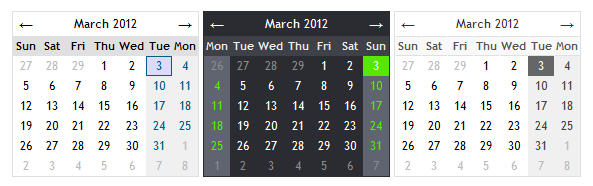
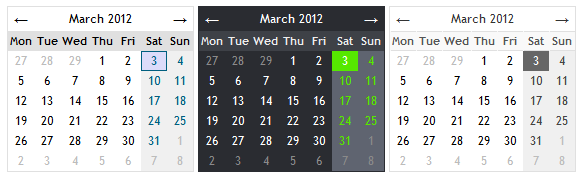
updated page + replaced screenshot + fixed theme name

diff --git a/js/yaDatePicker-1.0-min.js b/js/yaDatePicker-1.0-min.js
@@ -1,1 +1,1 @@
-(function(c){var d=["January","February","March","April","May","June","July","August","September","October","November","December"];var b=["Mon","Tue","Wed","Thu","Fri","Sat","Sun"];var f="←";var j="→";function l(p,s){var n=p.getMonth();var t=p.getDate();var u=p.getFullYear();var r=s.split(""),o;for(var q=0;q<r.length;q++){o=r[q];switch(r[q]){case"d":o=(t<10)?("0"+t):t;break;case"m":o=(n<9)?("0"+(1+n)):(1+n);break;case"y":o=(""+u).substr(2,2);break;case"Y":o=u;break}r[q]=o}return r.join("")}function i(m,n){return new Date(m.getFullYear(),m.getMonth()+n,0)>new Date()}function k(m){return new Date(m.getFullYear(),m.getMonth(),m.getDate())}function a(n){var m=[];for(var o=0;o<b.length;o++){if(o>n){m.unshift(b[o])}else{m.push(b[o])}}return m}function e(m){c("#"+m.id).slideUp(200)}function h(n){var D=new Date();var z=n.currentDate.getMonth();var y=a(n.firstDay);var p="";for(var B=0;B<7;B++){p+='<td class="@@-cell">'+y[B]+"</td>"}var o='<tr class="@@-days">'+p+"</tr>";var m=new Date(n.currentDate);m.setDate(0);m.setDate(m.getDate()+n.firstDay-m.getDay()+1);if(m.getMonth()==z){m.setDate(m.getDate()-7)}var r,s,C,q;for(var t=0,E=0;t<6;t++){p="";for(B=0;B<7;B++){var F=m.getDate();var A=m.getDay();r=(m.getMonth()==z)?" @@-on-month":" @@-off-month";s=(A==0||A==6)?" @@-weekend":"";C=((!n.allowPast&&m<=D)||(n.endDate!=-1&&m>n.endDate))?" @@-no-day":" @@-yes-day";q=m.getTime()==n.selectedDate.getTime()?" @@-selected-day":"";m.setDate(m.getDate()+1);p+='<td class="@@-cell'+r+s+C+q+'">'+F+"</td>"}o+='<tr class="@@-week">'+p+"</tr>"}var u="";if(n.navigation){var v='<div class="@@-prev-link">'+f+"</div>";var x='<div class="@@-next-link">'+j+"</div>";if(!n.allowPast&&!i(n.currentDate,0)){v=""}if(n.endDate!=-1&&n.endDate.getMonth()==z){x=""}u='<tr class="@@-links"><td colspan="1">'+v+'</td><td colspan="5"><div class="@@-current">'+d[n.currentDate.getMonth()]+" "+n.currentDate.getFullYear()+'</div></td><td colspan="1">'+x+"</td></tr>"}return('<table cellpadding="0" cellspacing="0">'+u+o+"</table>").replace(/@{2}/gi,n.theme)}function g(q,n){if(!n.allowPast){if(!i(n.currentDate,1)){var m=new Date(n.currentDate);m.setMonth(m.getMonth()+1);n.currentDate=m}}var o=h(n);var p=c("#"+n.id);if(p.length==0){p=c('<div id="'+n.id+'" class="'+n.theme+'"/>');if(n.inline){q.empty().append(p.addClass("inline"))}else{q.after(p.css({position:"absolute",display:"none"}))}}p.html(o);c("."+n.theme+"-links [class*=-link]",p).hover(function(){c(this).addClass(n.theme+"-link-hover")},function(){c(this).removeClass(n.theme+"-link-hover")}).click(function(s){s.stopPropagation();var r=new Date(n.currentDate);r.setMonth(r.getMonth()+(c(this).attr("class").indexOf("-prev-link")!=-1?-1:1));n.currentDate=r;g(q,n)});c("."+n.theme+"-yes-day",p).hover(function(){c(this).addClass(n.theme+"-cell-hover")},function(){c(this).removeClass(n.theme+"-cell-hover")}).click(function(){var s=c(this);var t=s.html();var r=new Date(n.currentDate);if(s.hasClass(n.theme+"-off-month")){r.setMonth(r.getMonth()+(t>15?-1:1))}r.setDate(t);n.currentDate=r;n.selectedDate=r;if(!n.inline){q.val(l(r,n.format));e(n)}g(q,n);if(n.onSelect){n.onSelect(r)}})}c.fn.attachDatePicker=function(m){return this.each(function(){var t=c(this);var p=k(new Date());var q=c.extend({},{inline:false,firstDay:0,navigation:true,allowPast:true,endDate:-1,theme:"dp",format:"d.m.Y",onSelect:function(u){}},m);q.id="dp-"+c("div[id^=dp-]").length;q.currentDate=p;q.selectedDate=p;if(!q.allowPast){q.selectedDate.setDate(p.getDate()+1)}var o=q.endDate;if(o!=-1){if(typeof o=="number"){var s=new Date(p);s.setDate(s.getDate()+o);q.endDate=s}else{if(!(o instanceof Date)){q.endDate=-1}}}g(t,q);if(!q.inline){var r=function(u){u.stopPropagation();c("#"+q.id).css({left:t.offset().left,top:t.offset().top+t.outerHeight(false)}).slideDown(200);c("div[id^=dp-]").not(".inline").not("#"+q.id).slideUp(200)};var n=function(u){u.stopPropagation();e(q)};t.focus(r).click(r);c(document).click(n)}})}})(jQuery);
+(function(f){f.monthNames=["January","February","March","April","May","June","July","August","September","October","November","December"];f.daysNames=["Sun","Mon","Tue","Wed","Thu","Fri","Sat"];f.prevLink="←";f.nextLink="→";function c(l,p){var j=l.getMonth();var q=l.getDate();var r=l.getFullYear();var o=p.split(""),k;for(var n=0;n<o.length;n++){k=o[n];switch(o[n]){case"d":k=(q<10)?("0"+q):q;break;case"m":k=(j<9)?("0"+(1+j)):(1+j);break;case"y":k=(""+r).substr(2,2);break;case"Y":k=r;break}o[n]=k}return o.join("")}function h(i,j){return new Date(i.getFullYear(),i.getMonth()+j,0)>new Date()}function d(i){return new Date(i.getFullYear(),i.getMonth(),i.getDate())}function e(k){var j=[];var m=f.daysNames;for(var l=m.length-1;l>=0;l--){if(l>=k){j.unshift(m[l])}else{j.push(m[l])}}return j}function b(i){f("#"+i.id).slideUp(200)}function a(k){var A=new Date();var v=k.currentDate.getMonth();var u=e(k.firstDay);var m="";for(var y=0;y<7;y++){m+='<td class="@@-cell">'+u[y]+"</td>"}var l='<tr class="@@-days">'+m+"</tr>";var j=new Date(k.currentDate);j.setDate(0);j.setDate(j.getDate()+k.firstDay-j.getDay());if(j.getMonth()==v){j.setDate(j.getDate()-7)}var o,p,z,n;for(var q=0,B=0;q<6;q++){m="";for(y=0;y<7;y++){var C=j.getDate();var x=j.getDay();o=(j.getMonth()==v)?" @@-on-month":" @@-off-month";p=(x==0||x==6)?" @@-weekend":"";z=((!k.allowPast&&j<=A)||(k.endDate!=-1&&j>k.endDate))?" @@-no-day":" @@-yes-day";n=j.getTime()==k.selectedDate.getTime()?" @@-selected-day":"";j.setDate(j.getDate()+1);m+='<td class="@@-cell'+o+p+z+n+'">'+C+"</td>"}l+='<tr class="@@-week">'+m+"</tr>"}var r="";if(k.navigation){var s='<div class="@@-prev-link">'+f.prevLink+"</div>";var t='<div class="@@-next-link">'+f.nextLink+"</div>";if(!k.allowPast&&!h(k.currentDate,0)){s=""}if(k.endDate!=-1&&k.endDate.getMonth()==v){t=""}r='<tr class="@@-links"><td colspan="1">'+s+'</td><td colspan="5"><div class="@@-current">'+f.monthNames[k.currentDate.getMonth()]+" "+k.currentDate.getFullYear()+'</div></td><td colspan="1">'+t+"</td></tr>"}return('<table cellpadding="0" cellspacing="0">'+r+l+"</table>").replace(/@{2}/gi,k.theme)}function g(m,j){if(!j.allowPast){if(!h(j.currentDate,1)){var i=new Date(j.currentDate);i.setMonth(i.getMonth()+1);j.currentDate=i}}var k=a(j);var l=f("#"+j.id);if(l.length==0){l=f('<div id="'+j.id+'" class="'+j.theme+'"/>');if(j.inline){m.empty().append(l.addClass("inline"))}else{m.after(l.css({position:"absolute",display:"none"}))}}l.html(k);f("."+j.theme+"-links [class*=-link]",l).hover(function(){f(this).addClass(j.theme+"-link-hover")},function(){f(this).removeClass(j.theme+"-link-hover")}).click(function(o){o.stopPropagation();var n=new Date(j.currentDate);n.setMonth(n.getMonth()+(f(this).attr("class").indexOf("-prev-link")!=-1?-1:1));j.currentDate=n;g(m,j)});f("."+j.theme+"-yes-day",l).hover(function(){f(this).addClass(j.theme+"-cell-hover")},function(){f(this).removeClass(j.theme+"-cell-hover")}).click(function(){var o=f(this);var p=o.html();var n=new Date(j.currentDate);if(o.hasClass(j.theme+"-off-month")){n.setMonth(n.getMonth()+(p>15?-1:1))}n.setDate(p);j.currentDate=n;j.selectedDate=n;if(!j.inline){m.val(c(n,j.format));b(j)}g(m,j);if(j.onSelect){j.onSelect(n)}})}f.fn.attachDatePicker=function(i){return this.each(function(){var p=f(this);var l=d(new Date());var m=f.extend({},{inline:false,firstDay:0,navigation:true,allowPast:true,endDate:-1,theme:"dp",format:"d.m.Y",onSelect:function(q){}},i);m.id="dp-"+f("div[id^=dp-]").length;m.currentDate=l;m.selectedDate=l;if(!m.allowPast){m.selectedDate.setDate(l.getDate()+1)}var k=m.endDate;if(k!=-1){if(typeof k=="number"){var o=new Date(l);o.setDate(o.getDate()+k);m.endDate=o}else{if(!(k instanceof Date)){m.endDate=-1}}}g(p,m);if(!m.inline){var n=function(q){q.stopPropagation();f("#"+m.id).css({left:p.offset().left,top:p.offset().top+p.outerHeight(false)}).slideDown(200);f("div[id^=dp-]").not(".inline").not("#"+m.id).slideUp(200)};var j=function(q){q.stopPropagation();b(m)};p.focus(n).click(n);f(document).click(j)}})}})(jQuery);

diff --git a/index.html b/index.html
@@ -3,7 +3,7 @@
 <html>
 <head>
     <meta http-equiv="content-type" content="text/html; charset=utf-8"/>
-    <title>yaDataPicker - yet another jQuery Date Picker plugin</title>
+    <title>yaDataPicker - yet another jQuery DatePicker plugin</title>
 
     <!--
         Highlighter stiles
@@ -17,7 +17,7 @@
 
     <link href="css/default.css" media="screen" rel="stylesheet" type="text/css"/>
     <link href="css/dark.css" media="screen" rel="stylesheet" type="text/css"/>
-    <link href="css/gray.css" media="screen" rel="stylesheet" type="text/css"/>
+    <link href="css/grey.css" media="screen" rel="stylesheet" type="text/css"/>
 
     <script type="text/javascript" src="js/yaDatePicker-1.0-min.js"></script>
 
@@ -78,10 +78,10 @@
 
 <div class="wrapper">
     <div class="content">
-        <h1>yaDataPicker - yet another date picker</h1>
+        <h1>yaDataPicker - yet another datepicker</h1>
 
         <p align="center">
-            <img src="img/screenshot.png" alt="yaDataPicker - yet another date picker"/>
+            <img src="img/screenshot.png" alt="yaDataPicker - yet another datepicker"/>
         </p>
         
         <p>
@@ -123,7 +123,7 @@
         <h3>Step 2 - Activate</h3>
         
         <p>
-            Create an input field or a div element to which you want to attach the date picker:
+            Create an input field or a div element to which you want to attach the datepicker:
         </p>
 
         <pre><code class="xml">
@@ -139,7 +139,7 @@
         </code></pre>
 
         <p>
-            Finally, attach a date picker to the created field:
+            Finally, attach a datepicker to the created field:
         </p>
 
         <pre><code class="javascript">
@@ -168,14 +168,14 @@
         navigation: true, // a flag to control appearance of the calendar navigation bar
         allowPast: true, // a flag that restricts selection of dates from the past
         endDate: -1, // a last date that is allowed to be selected. Could be a date or a number
-        theme: 'dp', // a name of date picker theme. Two themes are included: dp and dark
+        theme: 'dp', // a name of datepicker theme. Two themes are included: dp and dark
         format: 'd.m.Y', // a format of the date. Available options are:
                          // d - day, m - month, y - two digit year, Y - four digit year
         onSelect: function(date){} // a callback function which is called when the user selects date
     };
         </code></pre>
 
-        <h3>Example Theme</h3>
+        <h2>Example Theme</h2>
 
         <pre><code class="css">
     .dark {
@@ -258,9 +258,21 @@
     }
         </code></pre>
 
+        <h2>Localization</h2>
+        
+        <p>
+            If you need to translate the datepicker to another language simple include localization file in head of your page:
+        </p>
+
+        <pre>
+            <code class="xml">
+    &lt;script type="text/javascript" src="js/i18n/yaDatePicker-es.js"&gt;&lt;/script&gt;
+            </code>
+        </pre>
+        
         <h2>Examples</h2>
 
-        <p>A simple date picker with default settings.</p>
+        <p>A simple datepicker with default settings.</p>
 
         <input type="text" id="date-1"/>
 
@@ -270,7 +282,7 @@
             </code>
         </pre>
         
-        <p>A date picker with "dark" theme, Monday is the first day of the week, selected date has "d/m/Y" format.</p>
+        <p>A datepicker with "dark" theme, Monday is the first day of the week, selected date has "d/m/Y" format.</p>
 
         <input type="text" id="date-2"/>
 
@@ -278,7 +290,7 @@
             <code class="javascript">
     $("#date-2").attachDatePicker({
         theme:'dark',
-        firstDay:6,
+        firstDay:1,
         format: 'd/m/Y'
     });
             </code>
@@ -292,7 +304,7 @@
             <code class="javascript">
     $("#date-inline-1").attachDatePicker({
         inline: true,
-        firstDay:6,
+        firstDay:1,
         allowPast: false
     });
             </code>
@@ -334,8 +346,8 @@
         hljs.initHighlightingOnLoad();
 
         $("#date-1").attachDatePicker();
-        $("#date-2").attachDatePicker({theme:'dark', firstDay:6, format: 'd/m/Y'});
-        $("#date-inline-1").attachDatePicker({inline: true, firstDay:6, allowPast: false});
+        $("#date-2").attachDatePicker({theme:'dark', firstDay:1, format: 'd/m/Y'});
+        $("#date-inline-1").attachDatePicker({inline: true, firstDay:1, allowPast: false});
         $("#date-inline-2").attachDatePicker({inline: true, allowPast: false, endDate: 14, onSelect: function(date) { alert(date); } });
 
     })

diff --git a/css/grey.css b/css/grey.css
@@ -1,4 +1,4 @@
-.gray {
+.grey {
     display: inline-block;
     border: 1px solid #E0E0E0;
     font-family: "Trebuchet MS", Tahoma, Verdana, Arial, Helvetica, sans-serif;
@@ -6,11 +6,11 @@
     background-color: #FFFFFF;
 }
 
-.gray table {
+.grey table {
     border-collapse: separate;
 }
 
-.gray-cell {
+.grey-cell {
     padding: 1px;
     text-align: center;
     width: 22px;
@@ -18,58 +18,58 @@
     border: 1px solid transparent;
 }
 
-.gray-cell-hover {
+.grey-cell-hover {
     color: #ffffff  !important;
     background-color: #AAA !important;
     border-color: #AAA;
 }
 
-.gray-no-day {
+.grey-no-day {
     color: #999999 !important;
     text-decoration: line-through;
 }
 
-.gray-yes-day {
+.grey-yes-day {
     cursor: pointer;
 }
 
-.gray-selected-day {
+.grey-selected-day {
     color: #ffffff !important;
     background-color: #666 !important;
     border-color: #666;
 }
 
-.gray-off-month {
+.grey-off-month {
     color: #BCBCBC !important;
 }
 
-.gray-weekend {
+.grey-weekend {
     background-color: #F0F0F0;
     color: #444;
 }
 
-.gray-days {
+.grey-days {
     font-weight: bold;
     font-size: 11px;
 }
 
-.gray-days td {
+.grey-days td {
     background-color: #F9F9F9;
     color: #555;
     border-top: 1px solid #E0E0E0;
     border-bottom: 1px solid #E0E0E0;
 }
 
-.gray-prev-link, .gray-next-link, .gray-current {
+.grey-prev-link, .grey-next-link, .grey-current {
     text-align: center;
     color: #333;
 }
 
-.gray-next-link, .gray-prev-link {
+.grey-next-link, .grey-prev-link {
     font-size: 14px;
     cursor: pointer;
 }
 
-.gray-link-hover {
+.grey-link-hover {
     background-color: #E0E0E0;
 }
